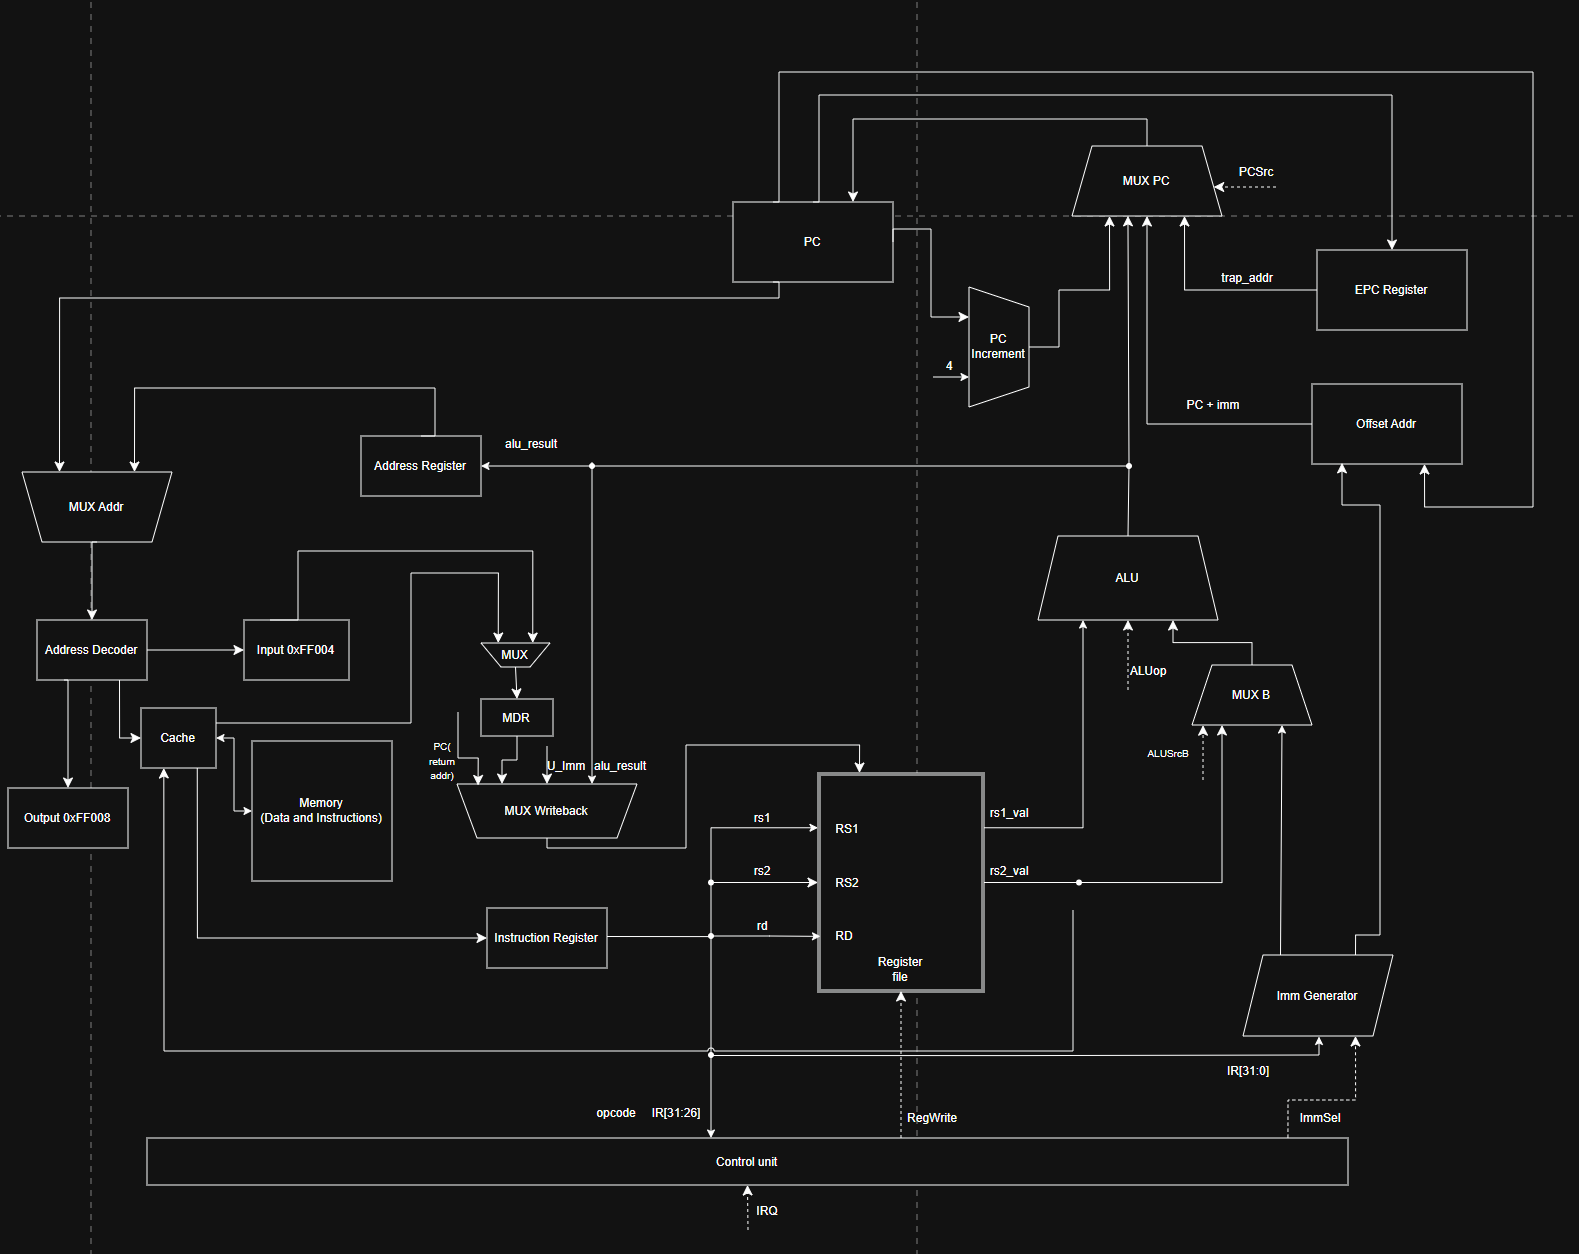
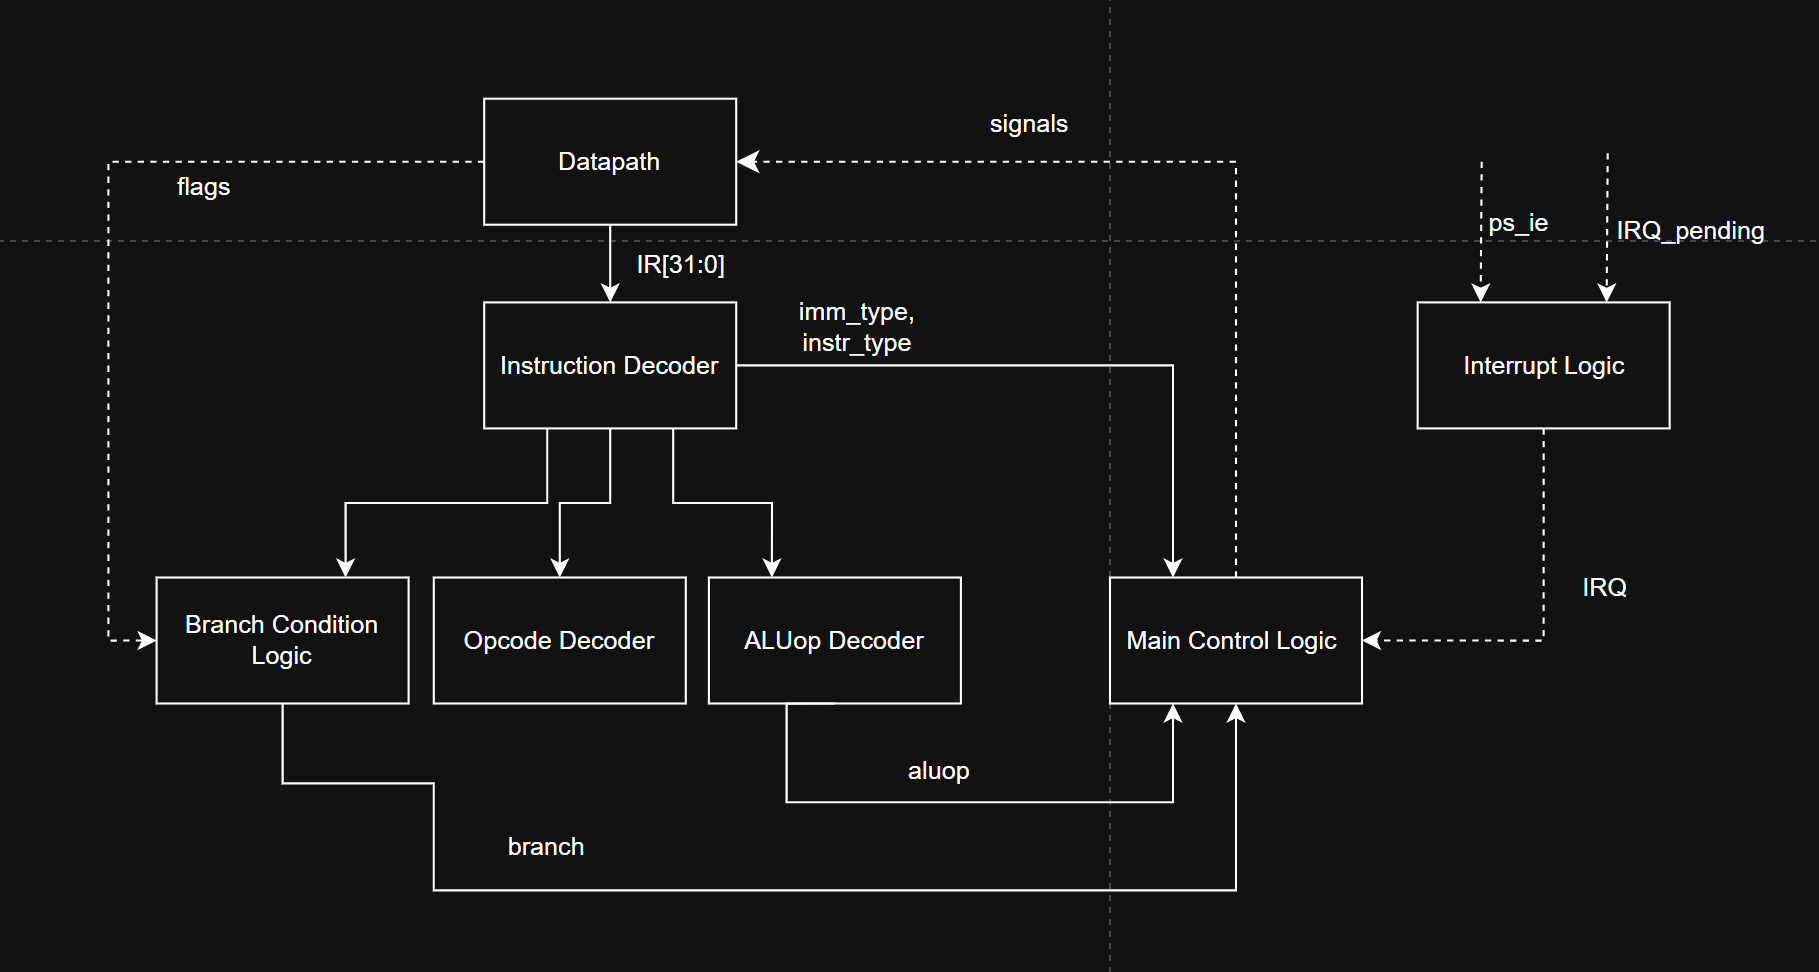
были перепутаны файлы со схемами(

diff --git a/README.md b/README.md
@@ -641,7 +641,7 @@ POP  t0    ; раскрывается в lw t0,0(sp) / addi sp,sp,4
 
 ### Схема DataPath
 
-![DataPath](docs/controlunit.png)
+![DataPath](docs/datapath.png)
 
 Процессор реализует классическую RISC-архитектуру с Load/Store доступом к памяти. Основные элементы:
 
@@ -695,7 +695,7 @@ Cache stats: 51 hits, 55 misses, 106 total, hit rate 48.1%
 
 ### Схема Control Unit (Hardwired)
 
-![Control Unit](docs/datapath.png)
+![Control Unit](docs/controlunit.png)
 
 Control Unit реализован как жёстко зашитый конечный автомат (`hw`). Каждый цикл инструкции разбивается на фиксированные фазы. Перед каждой выборкой инструкции CU проверяет условие `MMIO_IN_DATA не пуст && PS.IE` — при наступлении прерывания выполняется атомарная последовательность `TrapEnter` вместо Fetch.
 